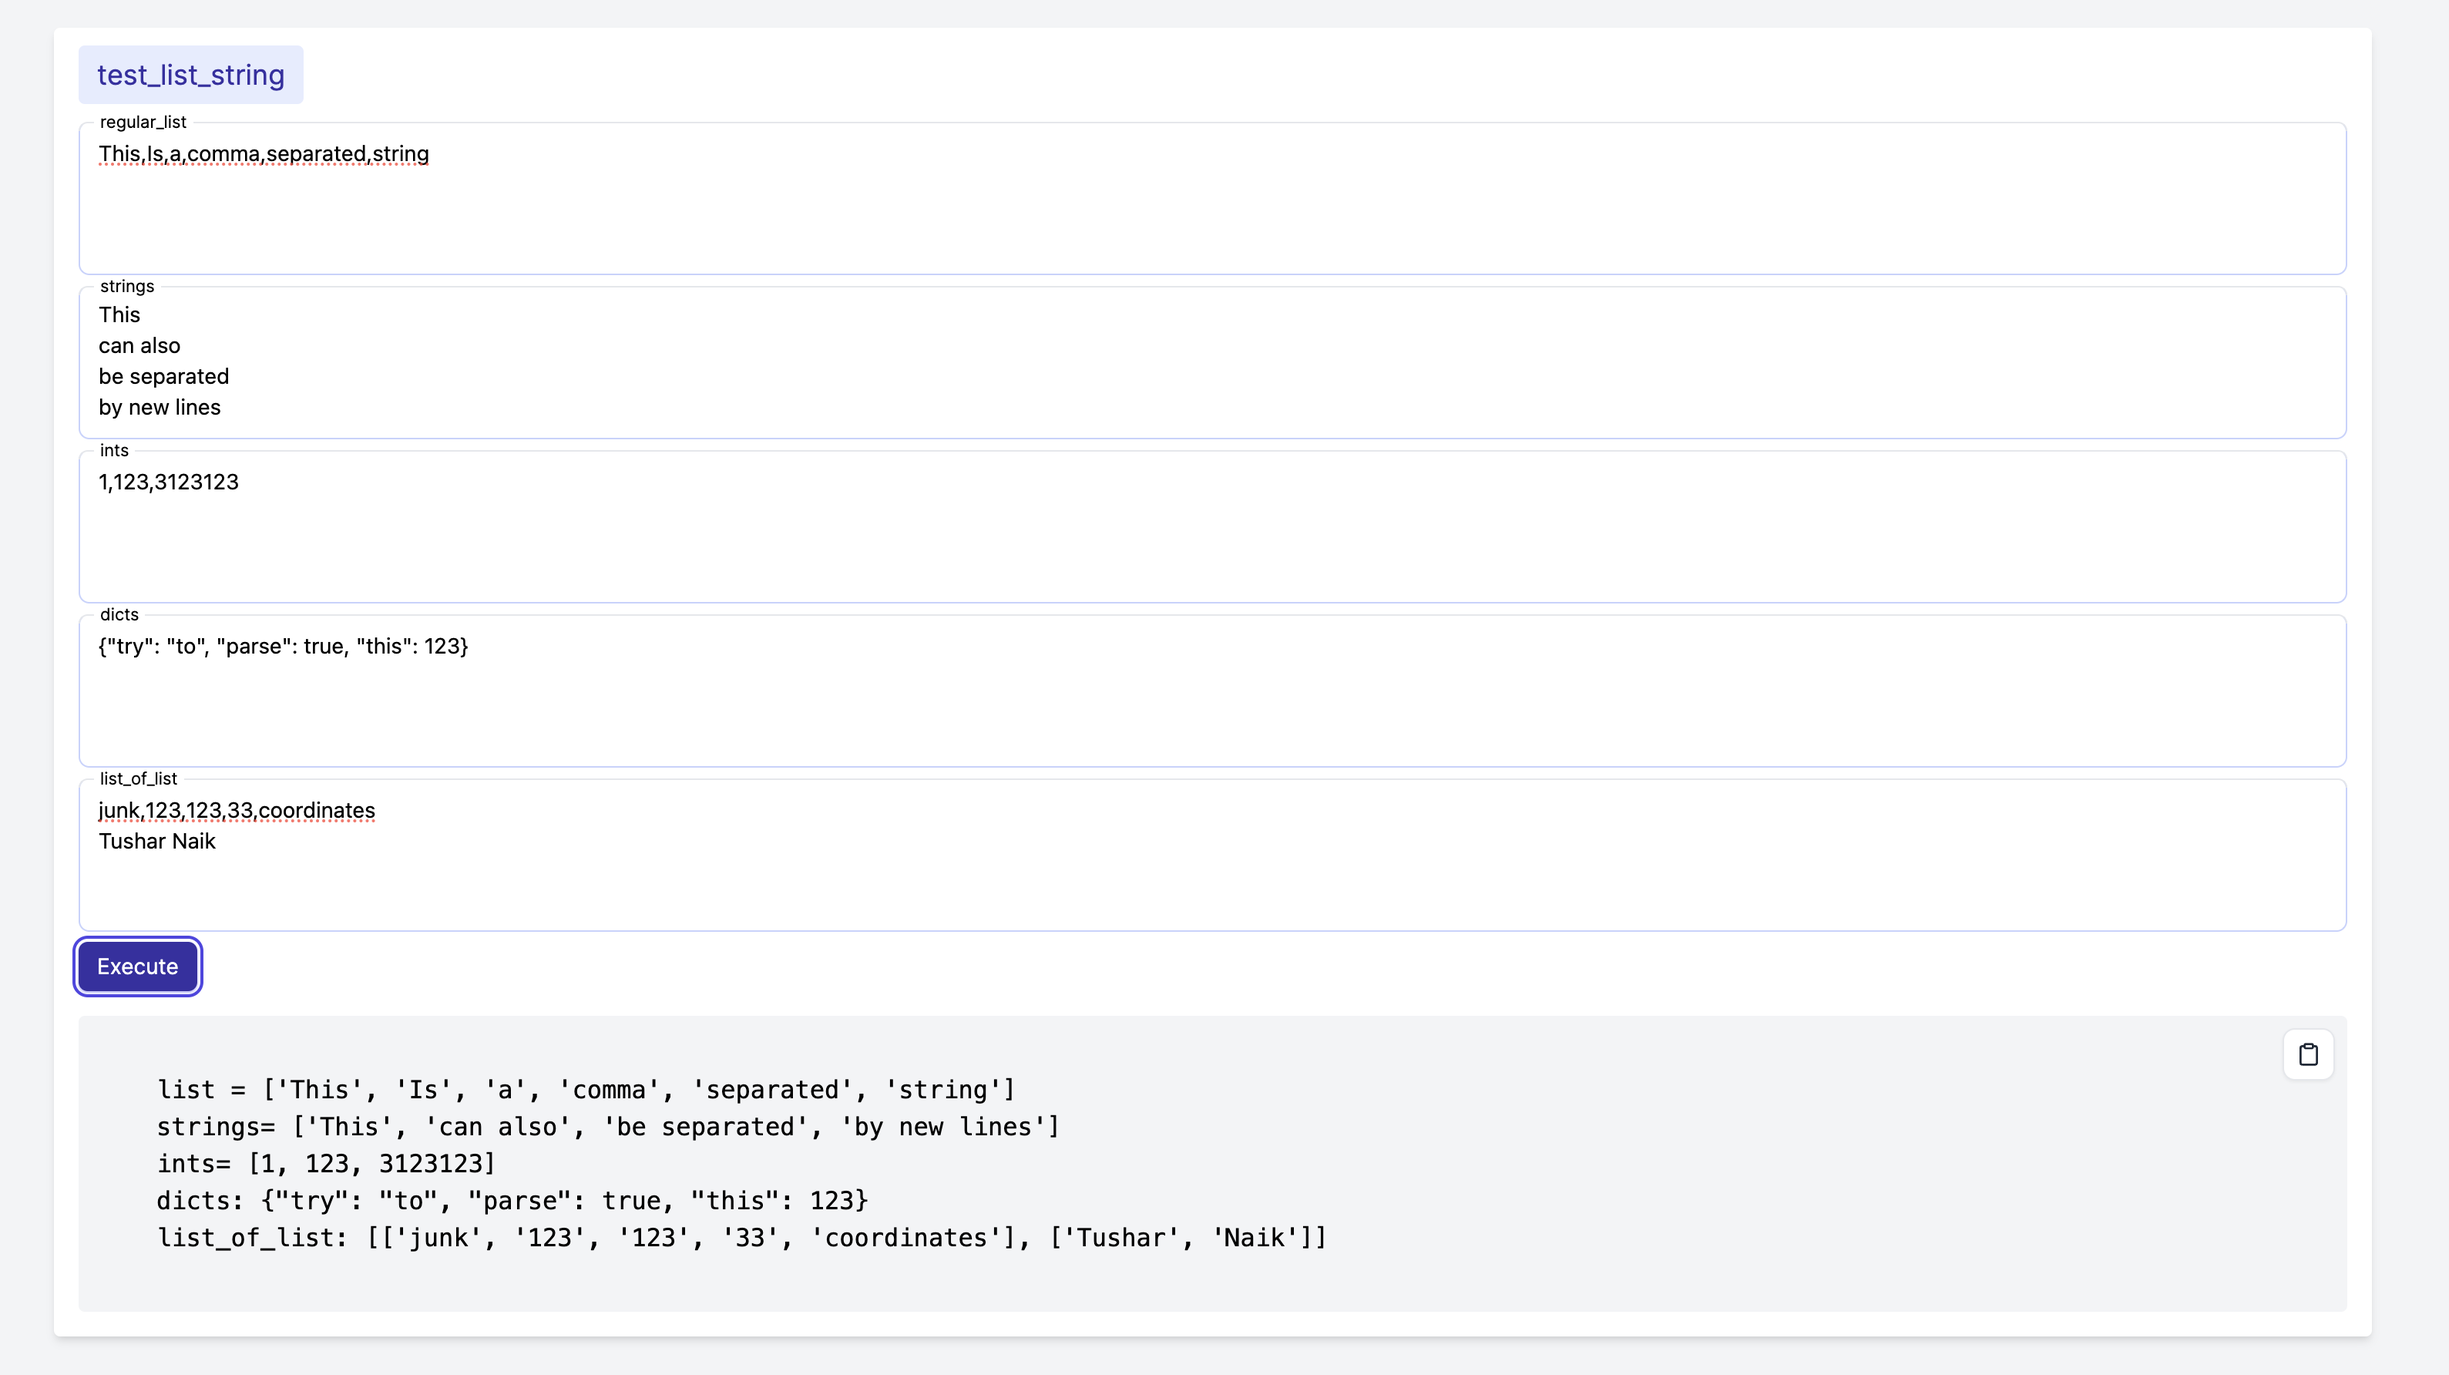
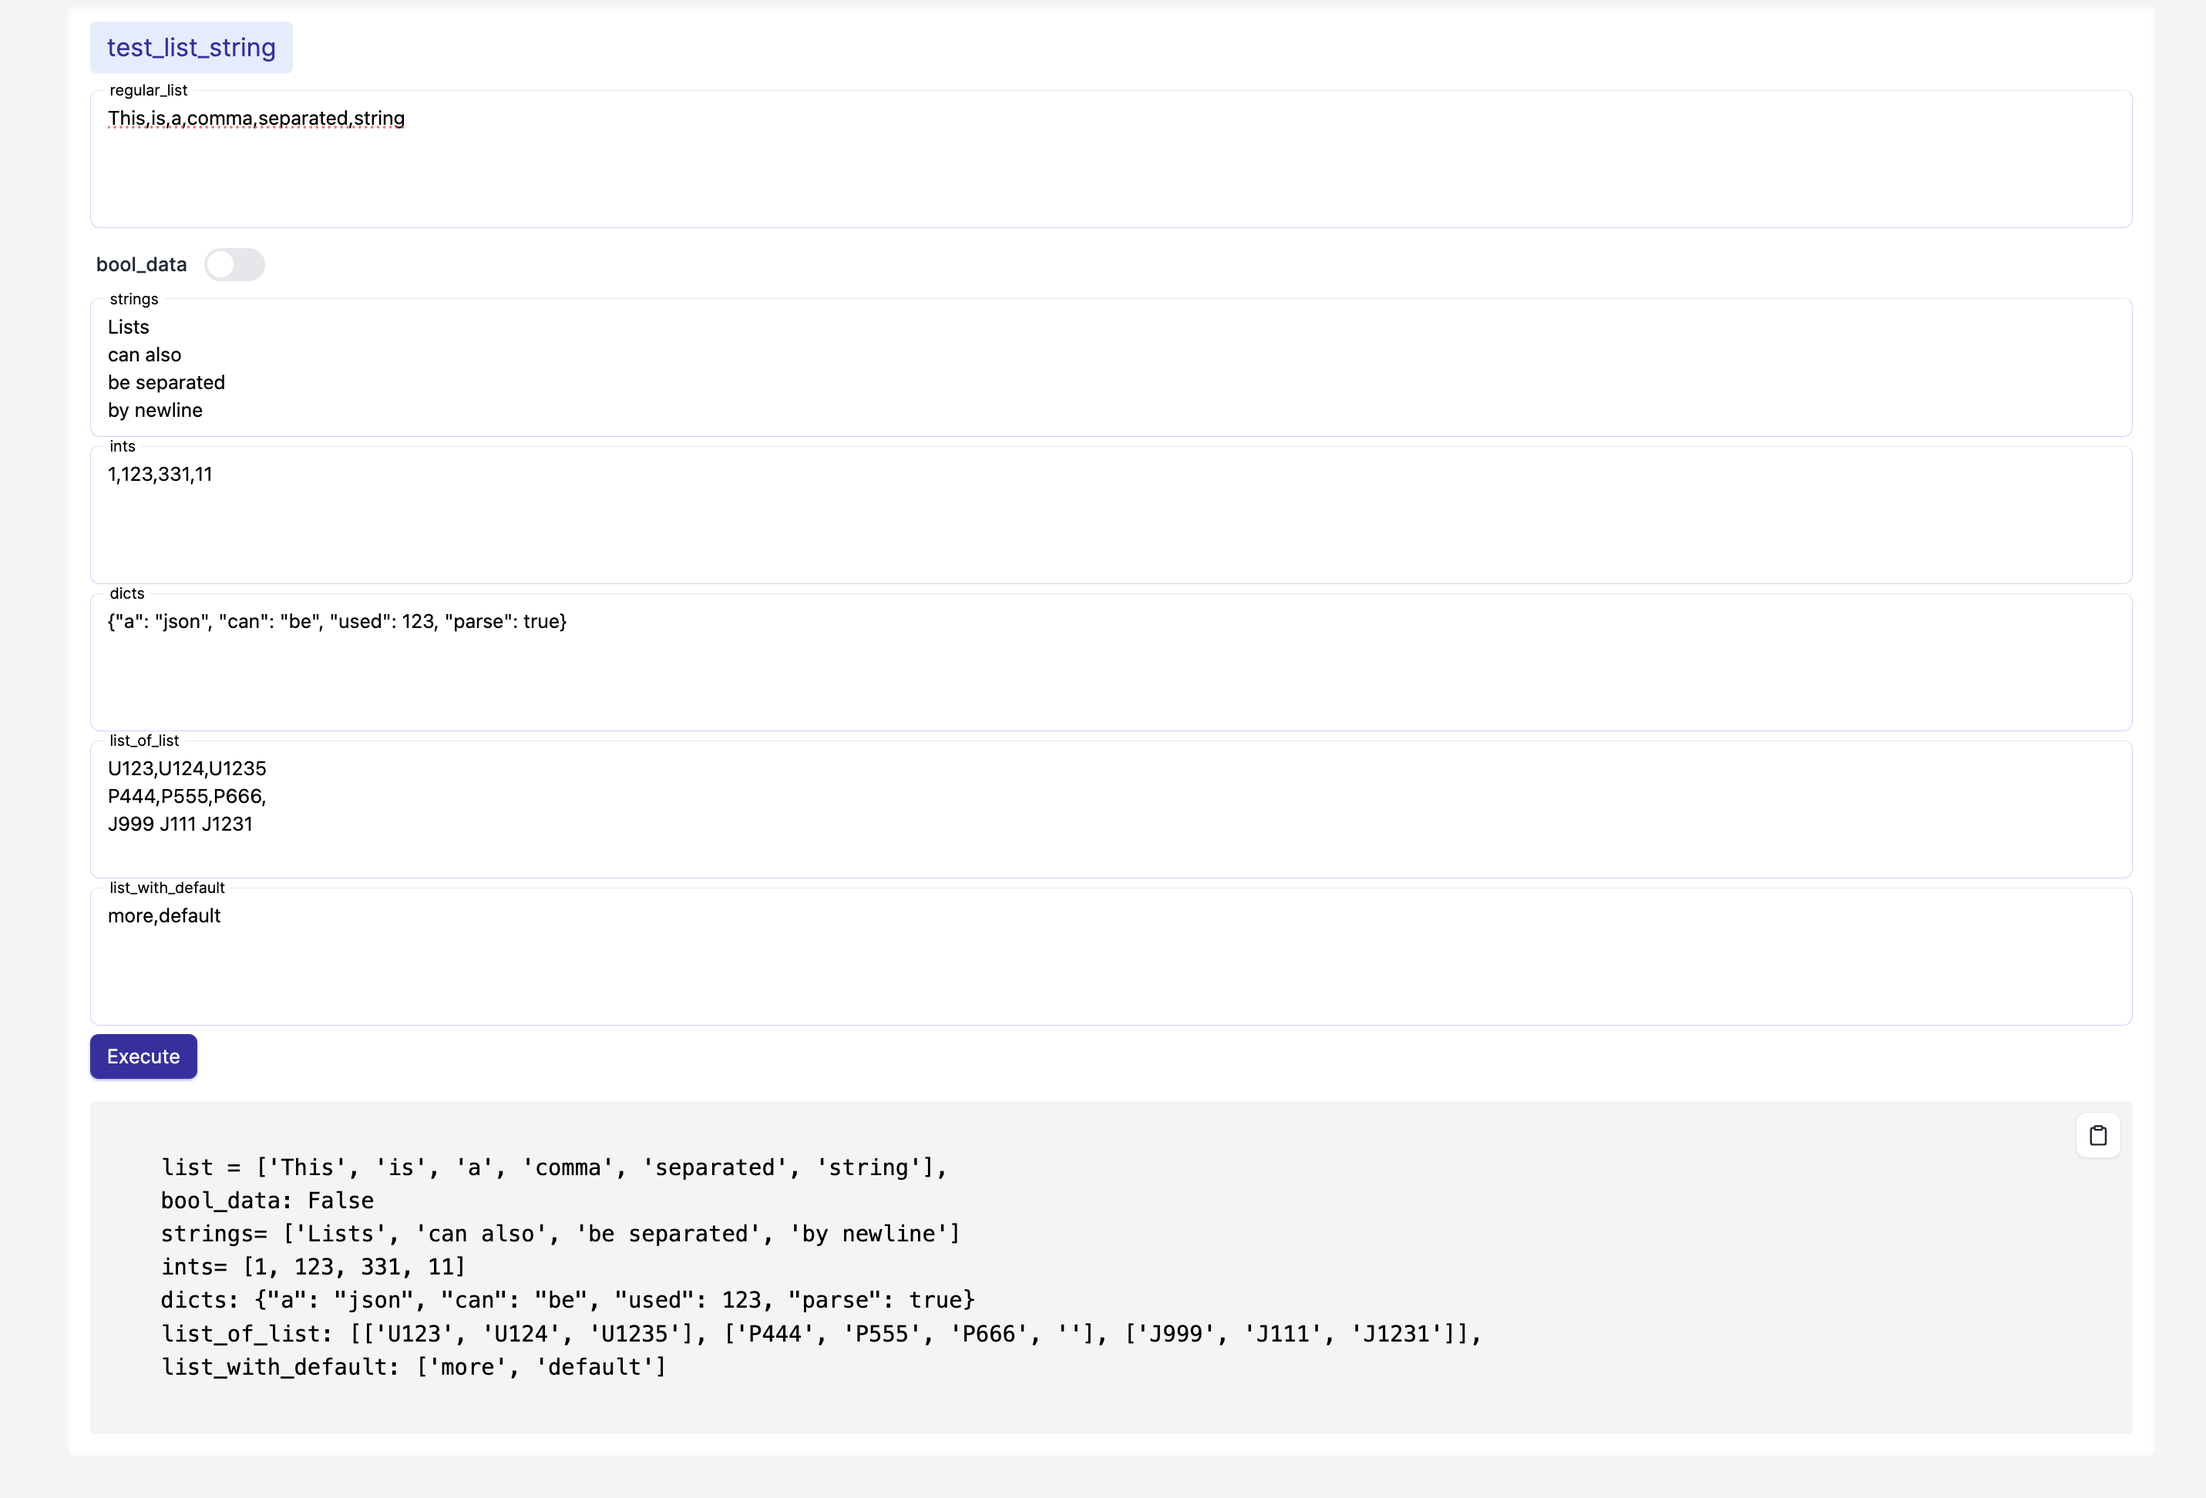
Implement default values for parameters
In this update, the code has been modified to include default values for parameters across various functions. This means that parameters are now non-mandatory within the interface. This effectively simplifies user inputs by providing pre-set options, while also allowing for customizable input if needed.

diff --git a/uime/templates/index.html b/uime/templates/index.html
@@ -66,6 +66,7 @@
                                         <input id="{{ param.name }}" name="{{ param.name }}" required
                                                type="number"
                                                class="peer w-full h-full bg-transparent text-blue-gray-700 font-sans font-normal outline outline-0 focus:outline-0 disabled:bg-blue-gray-50 disabled:border-0 transition-all placeholder-shown:border placeholder-shown:border-blue-gray-200 placeholder-shown:border-t-blue-gray-200 border focus:border-2 border-t-transparent focus:border-t-transparent text-sm px-3 py-2.5 rounded-[7px] border-blue-gray-200 focus:border-indigo-600"
+                                               {% if param.default is not none %} value="{{ param.default }}" {% endif %}
                                                placeholder=" "/>
                                         <label class="flex w-full h-full select-none pointer-events-none absolute left-0 font-normal !overflow-visible truncate peer-placeholder-shown:text-blue-gray-500 leading-tight peer-focus:leading-tight peer-disabled:text-transparent peer-disabled:peer-placeholder-shown:text-blue-gray-500 transition-all -top-1.5 peer-placeholder-shown:text-sm text-[11px] peer-focus:text-[11px] before:content[' '] before:block before:box-border before:w-2.5 before:h-1.5 before:mt-[6.5px] before:mr-1 peer-placeholder-shown:before:border-transparent before:rounded-tl-md before:border-t peer-focus:before:border-t-2 before:border-l peer-focus:before:border-l-2 before:pointer-events-none before:transition-all peer-disabled:before:border-transparent after:content[' '] after:block after:flex-grow after:box-border after:w-2.5 after:h-1.5 after:mt-[6.5px] after:ml-1 peer-placeholder-shown:after:border-transparent after:rounded-tr-md after:border-t peer-focus:after:border-t-2 after:border-r peer-focus:after:border-r-2 after:pointer-events-none after:transition-all peer-disabled:after:border-transparent peer-placeholder-shown:leading-[3.75] text-gray-500 peer-focus:text-gray-900 before:border-blue-gray-200 peer-focus:before:!border-indigo-600 after:border-blue-gray-200 peer-focus:after:!border-indigo-600">
                                             {{ param.name }}
@@ -73,21 +74,24 @@
                                     </div>
                                 </div>
                             {% elif param.type == 'bool' %}
-                                <div class="inline-flex items-center">
-                                    <label class="relative inline-flex items-center cursor-pointer">
-                                        <input type="checkbox" id="{{ param.name }}" name="{{ param.name }}"
-                                               {% if param.default %}checked{% endif %} class="sr-only peer">
-                                        <div class="w-11 h-6 bg-gray-200 peer-focus:outline-none peer-focus:ring-1 peer-focus:ring-white-300 dark:peer-focus:ring-indigo-800 rounded-full peer dark:bg-grey-700 peer-checked:after:translate-x-full rtl:peer-checked:after:-translate-x-full peer-checked:after:border-white after:content-[''] after:absolute after:top-[2px] after:start-[2px] after:bg-white after:border-white-300 after:border after:rounded-full after:h-5 after:w-5 after:transition-all dark:border-gray-600 peer-checked:bg-indigo-800"></div>
-                                        <span class="ms-3 text-sm font-medium text-gray-900 dark:text-gray-300">{{ param.name }}</span>
-                                    </label>
+                                <div class="inline-flex items-center py-2 mb-1">
+                                    <span class="ms-1 text-sm font-medium text-gray-800 dark:text-gray-800">{{ param.name }}</span>
+                                    <div class="inline-flex px-3">
+                                        <label class="relative inline-flex items-center cursor-pointer">
+                                            <input type="checkbox" id="{{ param.name }}" name="{{ param.name }}"
+                                                   {% if param.default %}checked{% endif %} class="sr-only peer">
+                                            <div class="w-11 h-6 bg-gray-200 peer-focus:outline-none peer-focus:ring-1 peer-focus:ring-white-300 dark:peer-focus:ring-indigo-800 rounded-full peer dark:bg-grey-700 peer-checked:after:translate-x-full rtl:peer-checked:after:-translate-x-full peer-checked:after:border-white after:content-[''] after:absolute after:top-[2px] after:start-[2px] after:bg-white after:border-white-300 after:border after:rounded-full after:h-5 after:w-5 after:transition-all dark:border-gray-600 peer-checked:bg-indigo-800"></div>
+
+                                        </label>
+                                    </div>
                                 </div>
                             {% elif param.type in ('List[str]', 'list', 'set', 'tuple', 'List[str]', 'List[int]', 'List[float]' ,'List[list]', 'dict') %}
                                 <div class="w-120">
                                     <div class="relative w-full min-w-[200px]">
-                                        <textarea id="{{ param.name }}" name="{{ param.name }}" class="peer h-full min-h-[100px] w-full resize-none rounded-[7px] border border-indigo-200 border-t-transparent bg-transparent px-3 py-2.5 font-sans text-sm font-normal text-blue-gray-700 outline outline-0 transition-all placeholder-shown:border placeholder-shown:border-blue-gray-200 placeholder-shown:border-t-indigo-200 focus:border-2 focus:border-indigo-600 focus:border-t-transparent focus:outline-0 disabled:resize-none disabled:border-0 disabled:bg-blue-gray-50" placeholder=" "></textarea>
-                                        <label class="before:content[' '] after:content[' '] pointer-events-none absolute left-0 -top-1.5 flex h-full w-full select-none text-[11px] font-normal leading-tight text-blue-gray-400 transition-all before:pointer-events-none before:mt-[6.5px] before:mr-1 before:box-border before:block before:h-1.5 before:w-2.5 before:rounded-tl-md before:border-t before:border-l before:border-blue-gray-200 before:transition-all after:pointer-events-none after:mt-[6.5px] after:ml-1 after:box-border after:block after:h-1.5 after:w-2.5 after:flex-grow after:rounded-tr-md after:border-t after:border-r after:border-blue-gray-200 after:transition-all peer-placeholder-shown:text-sm peer-placeholder-shown:leading-[3.75] peer-placeholder-shown:text-blue-gray-500 peer-placeholder-shown:before:border-transparent peer-placeholder-shown:after:border-transparent peer-focus:text-[11px] peer-focus:leading-tight peer-focus:text-gray-900 peer-focus:before:border-t-2 peer-focus:before:border-l-2 peer-focus:before:border-gray-900 peer-focus:after:border-t-2 peer-focus:after:border-r-2 peer-focus:after:border-gray-900 peer-disabled:text-transparent peer-disabled:before:border-transparent peer-disabled:after:border-transparent peer-disabled:peer-placeholder-shown:text-blue-gray-500">
-                                            {{ param.name }}
-                                        </label>
+                                        <textarea id="{{ param.name }}"
+                                                  name="{{ param.name }}" required
+                                                  class="peer h-full min-h-[100px] w-full resize-none rounded-[7px] border border-indigo-200 border-t-transparent bg-transparent px-3 py-2.5 font-sans text-sm font-normal text-blue-gray-700 outline outline-0 transition-all placeholder-shown:border placeholder-shown:border-blue-gray-200 placeholder-shown:border-t-indigo-200 focus:border-2 focus:border-indigo-600 focus:border-t-transparent focus:outline-0 disabled:resize-none disabled:border-0 disabled:bg-blue-gray-50" placeholder=" ">{% if param.default is not none %}{{ param.default }}{% endif %}</textarea>
+                                        <label class="before:content[' '] after:content[' '] pointer-events-none absolute left-0 -top-1.5 flex h-full w-full select-none text-[11px] font-normal leading-tight text-blue-gray-400 transition-all before:pointer-events-none before:mt-[6.5px] before:mr-1 before:box-border before:block before:h-1.5 before:w-2.5 before:rounded-tl-md before:border-t before:border-l before:border-blue-gray-200 before:transition-all after:pointer-events-none after:mt-[6.5px] after:ml-1 after:box-border after:block after:h-1.5 after:w-2.5 after:flex-grow after:rounded-tr-md after:border-t after:border-r after:border-blue-gray-200 after:transition-all peer-placeholder-shown:text-sm peer-placeholder-shown:leading-[3.75] peer-placeholder-shown:text-blue-gray-500 peer-placeholder-shown:before:border-transparent peer-placeholder-shown:after:border-transparent peer-focus:text-[11px] peer-focus:leading-tight peer-focus:text-gray-900 peer-focus:before:border-t-2 peer-focus:before:border-l-2 peer-focus:before:border-gray-900 peer-focus:after:border-t-2 peer-focus:after:border-r-2 peer-focus:after:border-gray-900 peer-disabled:text-transparent peer-disabled:before:border-transparent peer-disabled:after:border-transparent peer-disabled:peer-placeholder-shown:text-blue-gray-500">{{ param.name }}</label>
                                     </div>
                                 </div>
 
@@ -96,6 +100,7 @@
                                     <div class="relative w-full min-w-[200px] h-10 mb-2">
                                         <input id="{{ param.name }}" name="{{ param.name }}" required
                                                class="peer w-full h-full bg-transparent text-blue-gray-700 font-sans font-normal outline outline-0 focus:outline-0 disabled:bg-blue-gray-50 disabled:border-0 transition-all placeholder-shown:border placeholder-shown:border-indigo-200 placeholder-shown:border-t-indigo-200 border focus:border-2 border-t-transparent focus:border-t-transparent text-sm px-3 py-2.5 rounded-[7px] border-blue-gray-200 focus:border-indigo-600"
+                                                {% if param.default is not none %} value="{{ param.default }}" {% endif %}
                                                placeholder=" "/>
                                         <label class="flex w-full h-full select-none pointer-events-none absolute left-0 font-normal !overflow-visible truncate peer-placeholder-shown:text-blue-gray-500 leading-tight peer-focus:leading-tight peer-disabled:text-transparent peer-disabled:peer-placeholder-shown:text-blue-gray-500 transition-all -top-1.5 peer-placeholder-shown:text-sm text-[11px] peer-focus:text-[11px] before:content[' '] before:block before:box-border before:w-2.5 before:h-1.5 before:mt-[6.5px] before:mr-1 peer-placeholder-shown:before:border-transparent before:rounded-tl-md before:border-t peer-focus:before:border-t-2 before:border-l peer-focus:before:border-l-2 before:pointer-events-none before:transition-all peer-disabled:before:border-transparent after:content[' '] after:block after:flex-grow after:box-border after:w-2.5 after:h-1.5 after:mt-[6.5px] after:ml-1 peer-placeholder-shown:after:border-transparent after:rounded-tr-md after:border-t peer-focus:after:border-t-2 after:border-r peer-focus:after:border-r-2 after:pointer-events-none after:transition-all peer-disabled:after:border-transparent peer-placeholder-shown:leading-[3.75] text-gray-500 peer-focus:text-gray-900 before:border-blue-gray-200 peer-focus:before:!border-indigo-600 after:border-blue-gray-200 peer-focus:after:!border-indigo-600">
                                         {{ param.name }}

diff --git a/test.py b/test.py
@@ -25,7 +25,7 @@ def hello_world(name, value: bool = True):
 
 
 @ui_enabled(group="group1", title="My API", description="This will return a json")
-def make_api_call(url, data):
+def make_api_call(url, data="Some default value"):
     return json.dumps({"url": url, "data": hello_world(data)})
 
 
@@ -35,18 +35,24 @@ def sum_math_function(a: int, b: int):
 
 
 @ui_enabled(group="group2")
-def difference_math_function(a: int, b: int):
+def difference_math_function(a: int, b: int = 22):
+    print(type(b))
     return a - b
 
 
 @ui_enabled(group="group1")
-def test_list_string(regular_list: list, strings: List[str], ints: List[int], dicts: dict, list_of_list: List[list]):
+def test_list_string(regular_list: list,
+                     bool_data: bool,
+                     strings: List[str], ints: List[int], dicts: dict, list_of_list: List[list],
+                     list_with_default:list = "more,default"):
     return f"""
-    list = {regular_list}
+    list = {regular_list},
+    bool_data: {bool_data}
     strings= {strings}
     ints= {ints}
     dicts: {json.dumps(dicts)}
-    list_of_list: {list_of_list}
+    list_of_list: {list_of_list},
+    list_with_default: {list_with_default}
     """
 
 

diff --git a/uime/decorator.py b/uime/decorator.py
@@ -181,7 +181,8 @@ def ui_enabled(group="home", title="", description="", **kwargs):
         params = inspect.signature(func).parameters
         param_info = []
         for name, param in params.items():
-            type_ = str(param).split(":")[1].strip() if param.annotation != param.empty else 'str'
+            type_ = str(param).split(":")[1].split("=")[0].strip() if param.annotation != param.empty else 'str'
+            print(f"BROO: NAME({name}) PARAM({param}) TYPE({type} ANN({param.annotation})")
             param_info.append(ParameterInfo(
                 name,
                 type_,

diff --git a/README.md b/README.md
@@ -206,7 +206,7 @@ The following is not the exhaustive list of dependencies, but UI-me was made pos
 - [ ] Handle overloading of functions (identify functions with ids rather than names)
 - [x] Add support for setting `global` variables in the UI ([Setting Global Variables](#1-setting-global-variables))
 - [x] Add support for complex data-structures as inputs (like list of strings, or json strings)
-- [ ] Make default values for parameters as non-mandatory in the form
+- [x] Make default values for parameters as non-mandatory in the form
 - [x] Capture parameter data types and change the form field type accordingly
 
 ## Contributions
